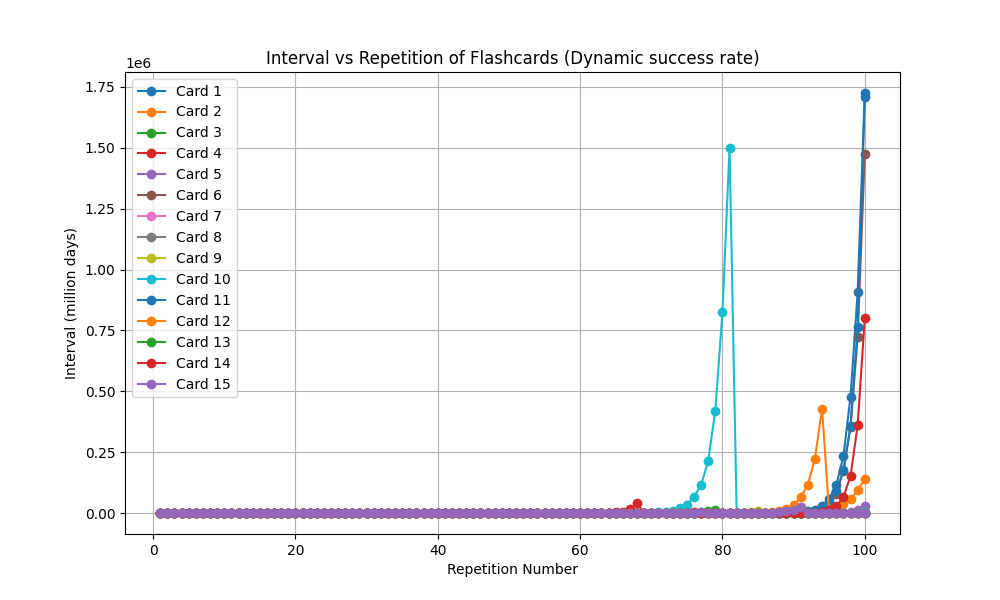
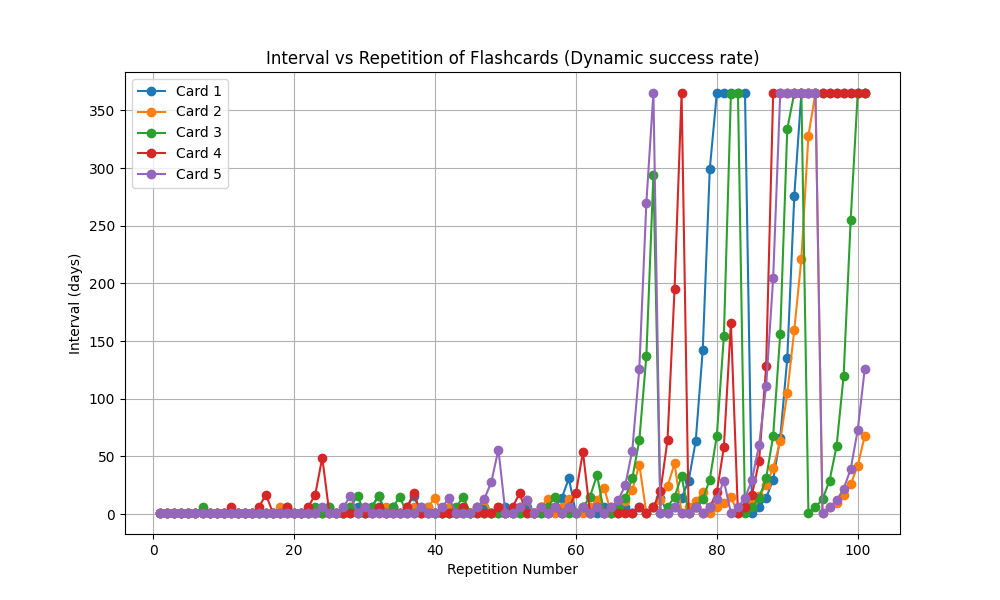
badges page improved for mobile view

diff --git a/cards/templates/cards/badge_shop.html b/cards/templates/cards/badge_shop.html
@@ -4,27 +4,34 @@
 {% block content %}
 {% load static %}
 
-    <div class="header">
+    <div class="flashcard-nav-header">
         <h2>BrainBucks Badge Shop</h2>
         <div class="brainbucks">{{ brainbucks }}<img src="{% static 'images/brainbuck.png' %}" alt="BrainBucks" class="brainbuck-img"></div>
+        <a href = "{% url 'dashboard' %}" class="loginbtn">Back</a>
     </div>
 
         <div class="study-grid">
             {% for badge in badges %}
-                <div class="badge-box">
-                    <div class="badge-image">
-                        <img src="{% static badge.image %}" alt="{{ badge.name }}">
+                    <div class="badge-box {% if badge in purchased_badges %}purchased{% endif %}">
+                        <div class="badge-image">
+                            <img src="{% static badge.image %}" alt="{{ badge.name }}">
+                        </div>
+                        <div class="badge-buttons">
+                            <form action="{% url 'purchase_badge' badge.id %}" method="post" class="purchase-badge-form">
+                                {% csrf_token %}
+                                <button 
+                                    type="submit" 
+                                    class="brainbucks" 
+                                    tabindex="0"
+                                    {% if badge.price > brainbucks or badge in purchased_badges %}disabled{% endif %}>
+                                    {{ badge.price }}
+                                    <img src="{% static 'images/brainbuck.png' %}" alt="BrainBucks">
+                                </button>
+                            </form>
+                        </div>
                     </div>
-                    <div class="badge-buttons">
-                        <form action="" method="post" class="purchase-badge-form">
-                            {% csrf_token %}
-                            <button type="submit" class="brainbucks">{{ badge.price }}<img src="{% static 'images/brainbuck.png' %}" alt="BrainBucks"></button>
-                        </form>
-                    </div>
-                </div>
-
-            {% empty %}
-            <p>No badges found.</p>
-            {% endfor %}
+                {% empty %}
+                    <p>No badges found.</p>
+                {% endfor %}
 </div>
 {% endblock %}

diff --git a/static/css/styles.css b/static/css/styles.css
@@ -7,6 +7,7 @@ body {
     height: 100vh;
     display: flex;
     flex-wrap: wrap;
+    justify-content: center;
 }
 
 main {
@@ -184,7 +185,7 @@ button:hover {
 }
 
 .signup-container {
-    width: 50%;
+    width: 40rem;
     padding: 2rem;
     align-self: center;
     background-color: #fff;
@@ -254,7 +255,7 @@ button:hover {
 }
 
 .scrollbox {
-    width: 100%;
+    width: 90%;
     height: 70vh;
     padding: 3rem;
     margin-top: 2rem;
@@ -262,6 +263,11 @@ button:hover {
     border: 2px solid #00000043;
     border-radius: 8px;
     box-shadow: 0 4px 6px rgba(0, 0, 0, 0.1);
+}
+
+.profile-box .scrollbox {
+    width: 100%;
+    height: 20vh;
 }
 
 
@@ -518,6 +524,31 @@ input[type="radio"]:checked + label.custom-radio {
     display: none;
 }
 
+.profile-box {
+    display: flex;
+    justify-content: center;
+    flex-direction: column;
+    align-items: center;
+    margin-bottom: 2rem;
+    padding: 3rem;
+    border: 2px solid #00000043;
+    border-radius: 8px;
+    background-color: #fff;
+    box-shadow: 0 4px 6px rgba(0, 0, 0, 0.1);
+    width: 75%;
+    height: 85%;
+    box-sizing: border-box;
+}
+
+.badge-container {
+    display: flex;
+    justify-content: center;
+    align-items: center;
+    gap: 20px;
+    flex-wrap: wrap;
+    width: 100%;
+    margin-top: 20px;
+}
 
 .feedback-bar {
     position: fixed;
@@ -888,7 +919,7 @@ input[type="radio"]:checked + label.custom-radio {
     display: flex;
     gap: 8rem;
     padding: 2rem;
-    justify-content: flex-start;
+    justify-content: center;
 }
 
 .create-form {

diff --git a/cards/templates/cards/profile.html b/cards/templates/cards/profile.html
@@ -4,8 +4,8 @@
 {% block content %}
 {% load static %}
 
-<div class="game-box">
-    <div class="header-container">
+<div class="profile-box">
+    <div class="flashcard-nav-header">
         <h1>{{ user.username }}</h1>
         <button id="edit-profile" class="loginbtn">Settings</button>
     </div>
@@ -17,7 +17,23 @@
                 </div>
             </div>
         {% endfor %}
-        <img src="{% static 'images/edit_badge.png' %}" alt="Edit badges">
+        <div class="badge-image">
+            <img src="{% static 'images/edit_badge.png' %}" alt="Edit badges">
+        </div>
+    </div>
+
+    <div class="dashboard">
+        <div class="scrollbox">
+            <div class="flashcard-nav-header">
+                Friends
+            </div>
+            List friends here
+        </div>
+        <div class="scrollbox">
+            <div class="flashcard-nav-header">
+                Leagues
+            </div>
+            List leagues here
     </div>
 </div>
 

diff --git a/spaceplots.py b/spaceplots.py
@@ -1,21 +1,21 @@
 import matplotlib.pyplot as plt
 
 flashcards = [
-    {"term": "Card 1", "intervals": [1.0, 1.0, 1.0, 1.0, 1.0, 1.0, 1.0, 1.0, 1.0, 1.0, 1.0, 1.0, 1.0, 1.0, 1.0, 1.0, 1.0, 1.0, 1.0, 1.0, 1.0, 1.0, 6.0, 1.0, 6.0, 1.0, 1.0, 1.0, 1.0, 1.0, 6.0, 1.0, 1.0, 1.0, 1.0, 1.0, 1.0, 1.0, 1.0, 6.0, 1.0, 1.0, 6.0, 14.0, 1.0, 6.0, 1.0, 1.0, 1.0, 6.0, 1.0, 1.0, 1.0, 6.0, 15.0, 37.0, 1.0, 1.0, 6.0, 1.0, 6.0, 16.0, 39.0, 89.0, 202.0, 477.0, 1.0, 1.0, 6.0, 14.0, 33.0, 77.0, 168.0, 1.0, 6.0, 13.0, 1.0, 6.0, 13.0, 27.0, 1.0, 1.0, 6.0, 14.0, 32.0, 75.0, 165.0, 340.0, 701.0, 1515.0, 3424.0, 7259.0, 14373.0, 28459.0, 59195.0, 114839.0, 234272.0, 477915.0, 908039.0, 1725275.0]},
-    {"term": "Card 2", "intervals": [1.0, 1.0, 1.0, 1.0, 1.0, 6.0, 1.0, 1.0, 1.0, 1.0, 1.0, 1.0, 1.0, 1.0, 1.0, 1.0, 1.0, 1.0, 1.0, 1.0, 1.0, 1.0, 1.0, 6.0, 16.0, 42.0, 1.0, 6.0, 16.0, 1.0, 1.0, 1.0, 1.0, 6.0, 16.0, 1.0, 1.0, 1.0, 1.0, 6.0, 1.0, 1.0, 1.0, 1.0, 1.0, 1.0, 1.0, 1.0, 1.0, 6.0, 14.0, 32.0, 1.0, 1.0, 1.0, 6.0, 14.0, 29.0, 1.0, 1.0, 1.0, 6.0, 13.0, 29.0, 66.0, 1.0, 6.0, 12.0, 1.0, 6.0, 12.0, 24.0, 49.0, 94.0, 188.0, 350.0, 651.0, 1120.0, 2039.0, 1.0, 6.0, 11.0, 21.0, 37.0, 65.0, 114.0, 210.0, 387.0, 658.0, 1185.0, 1968.0, 3267.0, 5750.0, 9316.0, 13788.0, 21786.0, 36601.0, 56366.0, 92441.0, 138662.0]},
-    {"term": "Card 3", "intervals": [1.0, 1.0, 1.0, 1.0, 1.0, 1.0, 1.0, 1.0, 1.0, 1.0, 1.0, 1.0, 1.0, 6.0, 1.0, 1.0, 1.0, 1.0, 1.0, 6.0, 1.0, 1.0, 1.0, 6.0, 1.0, 1.0, 6.0, 14.0, 1.0, 6.0, 14.0, 1.0, 1.0, 1.0, 1.0, 6.0, 13.0, 1.0, 6.0, 1.0, 1.0, 1.0, 1.0, 6.0, 1.0, 1.0, 6.0, 14.0, 1.0, 6.0, 1.0, 6.0, 1.0, 6.0, 15.0, 36.0, 1.0, 1.0, 1.0, 6.0, 1.0, 1.0, 6.0, 1.0, 6.0, 12.0, 1.0, 1.0, 6.0, 13.0, 30.0, 63.0, 139.0, 287.0, 620.0, 1402.0, 2973.0, 6303.0, 12480.0, 1.0, 6.0, 1.0, 6.0, 12.0, 22.0, 40.0, 67.0, 112.0, 1.0, 6.0, 10.0, 18.0, 29.0, 46.0, 67.0, 97.0, 150.0, 232.0, 325.0, 488.0]},
-    {"term": "Card 4", "intervals": [1.0, 1.0, 1.0, 1.0, 1.0, 1.0, 1.0, 1.0, 1.0, 1.0, 6.0, 1.0, 1.0, 1.0, 1.0, 1.0, 1.0, 6.0, 14.0, 32.0, 1.0, 1.0, 6.0, 1.0, 1.0, 1.0, 1.0, 1.0, 6.0, 1.0, 6.0, 13.0, 28.0, 1.0, 6.0, 13.0, 1.0, 6.0, 1.0, 1.0, 1.0, 6.0, 1.0, 6.0, 1.0, 6.0, 1.0, 6.0, 1.0, 6.0, 1.0, 6.0, 11.0, 19.0, 30.0, 1.0, 6.0, 1.0, 1.0, 1.0, 1.0, 1.0, 6.0, 1.0, 1.0, 6.0, 12.0, 21.0, 1.0, 1.0, 6.0, 1.0, 6.0, 11.0, 1.0, 6.0, 10.0, 17.0, 28.0, 46.0, 70.0, 96.0, 141.0, 1.0, 6.0, 9.0, 13.0, 19.0, 29.0, 47.0, 70.0, 1.0, 6.0, 9.0, 13.0, 1.0, 6.0, 9.0, 12.0, 17.0]},
-    {"term": "Card 5", "intervals": [1.0, 1.0, 1.0, 1.0, 1.0, 1.0, 1.0, 1.0, 1.0, 6.0, 1.0, 1.0, 1.0, 1.0, 1.0, 1.0, 1.0, 1.0, 6.0, 1.0, 1.0, 1.0, 1.0, 1.0, 6.0, 1.0, 1.0, 1.0, 6.0, 1.0, 6.0, 1.0, 1.0, 1.0, 6.0, 1.0, 1.0, 6.0, 1.0, 6.0, 1.0, 6.0, 1.0, 6.0, 1.0, 6.0, 16.0, 1.0, 6.0, 14.0, 33.0, 76.0, 183.0, 1.0, 6.0, 1.0, 1.0, 6.0, 15.0, 1.0, 6.0, 14.0, 33.0, 1.0, 6.0, 15.0, 1.0, 1.0, 6.0, 1.0, 1.0, 6.0, 16.0, 42.0, 1.0, 6.0, 15.0, 36.0, 88.0, 215.0, 1.0, 6.0, 15.0, 36.0, 87.0, 197.0, 446.0, 1053.0, 2486.0, 1.0, 6.0, 16.0, 43.0, 109.0, 286.0, 778.0, 2008.0, 4900.0, 11956.0, 29173.0]},
-    {"term": "Card 6", "intervals": [1.0, 1.0, 1.0, 1.0, 1.0, 1.0, 1.0, 1.0, 1.0, 1.0, 1.0, 1.0, 1.0, 1.0, 6.0, 1.0, 6.0, 1.0, 1.0, 1.0, 1.0, 1.0, 1.0, 6.0, 1.0, 1.0, 1.0, 6.0, 1.0, 1.0, 1.0, 1.0, 1.0, 6.0, 17.0, 45.0, 112.0, 1.0, 1.0, 1.0, 1.0, 6.0, 1.0, 6.0, 17.0, 1.0, 6.0, 1.0, 1.0, 1.0, 6.0, 1.0, 6.0, 1.0, 6.0, 16.0, 44.0, 1.0, 1.0, 6.0, 16.0, 43.0, 1.0, 6.0, 16.0, 1.0, 1.0, 1.0, 6.0, 17.0, 1.0, 6.0, 17.0, 49.0, 135.0, 384.0, 1037.0, 1.0, 6.0, 16.0, 43.0, 109.0, 260.0, 1.0, 6.0, 15.0, 38.0, 99.0, 266.0, 676.0, 1623.0, 3668.0, 7777.0, 17265.0, 38329.0, 79725.0, 173801.0, 354555.0, 723293.0, 1475518.0]},
-    {"term": "Card 7", "intervals": [1.0, 6.0, 1.0, 1.0, 1.0, 1.0, 1.0, 1.0, 1.0, 1.0, 1.0, 1.0, 1.0, 1.0, 1.0, 1.0, 1.0, 1.0, 1.0, 1.0, 6.0, 1.0, 1.0, 1.0, 6.0, 12.0, 1.0, 6.0, 1.0, 1.0, 1.0, 1.0, 1.0, 1.0, 6.0, 12.0, 1.0, 1.0, 1.0, 6.0, 1.0, 1.0, 1.0, 1.0, 1.0, 6.0, 12.0, 1.0, 6.0, 1.0, 6.0, 1.0, 6.0, 1.0, 6.0, 13.0, 25.0, 1.0, 1.0, 6.0, 12.0, 1.0, 6.0, 11.0, 1.0, 6.0, 1.0, 6.0, 1.0, 6.0, 1.0, 6.0, 10.0, 18.0, 31.0, 57.0, 96.0, 1.0, 6.0, 10.0, 18.0, 32.0, 56.0, 98.0, 181.0, 308.0, 555.0, 922.0, 1.0, 6.0, 11.0, 21.0, 42.0, 77.0, 148.0, 264.0, 433.0, 754.0, 1207.0, 1932.0]},
-    {"term": "Card 8", "intervals": [1.0, 1.0, 1.0, 1.0, 1.0, 1.0, 1.0, 1.0, 1.0, 1.0, 1.0, 1.0, 1.0, 1.0, 1.0, 1.0, 1.0, 1.0, 1.0, 1.0, 6.0, 1.0, 1.0, 1.0, 6.0, 1.0, 1.0, 6.0, 1.0, 1.0, 6.0, 14.0, 1.0, 1.0, 1.0, 1.0, 6.0, 14.0, 1.0, 1.0, 1.0, 1.0, 1.0, 1.0, 6.0, 15.0, 34.0, 72.0, 1.0, 6.0, 13.0, 29.0, 64.0, 1.0, 6.0, 13.0, 1.0, 6.0, 1.0, 6.0, 13.0, 1.0, 6.0, 14.0, 34.0, 81.0, 192.0, 1.0, 6.0, 14.0, 33.0, 77.0, 168.0, 1.0, 1.0, 1.0, 1.0, 6.0, 13.0, 28.0, 56.0, 105.0, 1.0, 6.0, 11.0, 21.0, 39.0, 75.0, 134.0, 252.0, 439.0, 1.0, 6.0, 9.0, 15.0, 25.0, 42.0, 74.0, 120.0, 195.0]},
-    {"term": "Card 9", "intervals": [1.0, 1.0, 1.0, 1.0, 1.0, 1.0, 1.0, 1.0, 1.0, 1.0, 1.0, 1.0, 1.0, 1.0, 1.0, 1.0, 1.0, 1.0, 1.0, 6.0, 1.0, 1.0, 6.0, 1.0, 1.0, 1.0, 1.0, 1.0, 1.0, 1.0, 6.0, 1.0, 1.0, 1.0, 1.0, 6.0, 1.0, 1.0, 1.0, 6.0, 1.0, 1.0, 6.0, 1.0, 1.0, 6.0, 14.0, 1.0, 1.0, 1.0, 6.0, 13.0, 1.0, 1.0, 6.0, 14.0, 29.0, 1.0, 6.0, 13.0, 29.0, 63.0, 137.0, 310.0, 701.0, 1.0, 6.0, 14.0, 33.0, 77.0, 1.0, 6.0, 14.0, 31.0, 1.0, 6.0, 14.0, 31.0, 71.0, 152.0, 326.0, 731.0, 1711.0, 3765.0, 8283.0, 1.0, 1.0, 6.0, 15.0, 38.0, 90.0, 222.0, 547.0, 1401.0, 1.0, 6.0, 16.0, 42.0, 105.0, 271.0]},
-    {"term": "Card 10", "intervals": [1.0, 1.0, 1.0, 1.0, 6.0, 1.0, 1.0, 6.0, 1.0, 6.0, 1.0, 1.0, 6.0, 1.0, 1.0, 1.0, 6.0, 1.0, 1.0, 1.0, 1.0, 1.0, 1.0, 1.0, 1.0, 1.0, 1.0, 6.0, 18.0, 1.0, 6.0, 1.0, 6.0, 1.0, 1.0, 1.0, 6.0, 1.0, 6.0, 1.0, 6.0, 1.0, 1.0, 1.0, 1.0, 6.0, 1.0, 1.0, 6.0, 17.0, 1.0, 6.0, 15.0, 39.0, 1.0, 6.0, 1.0, 1.0, 1.0, 6.0, 1.0, 1.0, 6.0, 15.0, 34.0, 72.0, 142.0, 293.0, 633.0, 1279.0, 2712.0, 5370.0, 9881.0, 19170.0, 34506.0, 65562.0, 115390.0, 214626.0, 420667.0, 824508.0, 1500605.0, 1.0, 6.0, 11.0, 17.0, 24.0, 34.0, 52.0, 84.0, 123.0, 180.0, 238.0, 310.0, 403.0, 524.0, 682.0, 887.0, 1154.0, 1616.0, 2425.0]},
-    {"term": "Card 11", "intervals": [1.0, 1.0, 1.0, 1.0, 1.0, 1.0, 1.0, 1.0, 1.0, 1.0, 1.0, 1.0, 1.0, 1.0, 1.0, 1.0, 6.0, 1.0, 1.0, 1.0, 1.0, 1.0, 1.0, 6.0, 1.0, 1.0, 6.0, 1.0, 1.0, 6.0, 1.0, 1.0, 1.0, 6.0, 1.0, 1.0, 1.0, 1.0, 6.0, 1.0, 1.0, 1.0, 1.0, 1.0, 1.0, 6.0, 1.0, 1.0, 6.0, 1.0, 1.0, 6.0, 16.0, 42.0, 115.0, 1.0, 6.0, 16.0, 43.0, 120.0, 317.0, 837.0, 1.0, 6.0, 16.0, 1.0, 6.0, 15.0, 39.0, 1.0, 6.0, 16.0, 39.0, 1.0, 1.0, 1.0, 6.0, 14.0, 34.0, 1.0, 6.0, 16.0, 1.0, 6.0, 15.0, 35.0, 81.0, 187.0, 404.0, 873.0, 1886.0, 4074.0, 9208.0, 19521.0, 43337.0, 90141.0, 174874.0, 356743.0, 763431.0, 1710086.0]},
-    {"term": "Card 12", "intervals": [1.0, 1.0, 1.0, 1.0, 1.0, 1.0, 1.0, 1.0, 1.0, 1.0, 1.0, 1.0, 1.0, 1.0, 1.0, 1.0, 1.0, 6.0, 15.0, 1.0, 6.0, 1.0, 1.0, 1.0, 1.0, 1.0, 1.0, 1.0, 6.0, 1.0, 1.0, 1.0, 1.0, 1.0, 6.0, 1.0, 6.0, 1.0, 1.0, 1.0, 1.0, 1.0, 6.0, 15.0, 1.0, 6.0, 14.0, 29.0, 1.0, 6.0, 1.0, 6.0, 14.0, 32.0, 73.0, 1.0, 6.0, 14.0, 32.0, 1.0, 6.0, 14.0, 32.0, 75.0, 164.0, 1.0, 6.0, 15.0, 34.0, 1.0, 6.0, 12.0, 25.0, 52.0, 1.0, 6.0, 1.0, 1.0, 6.0, 13.0, 28.0, 63.0, 140.0, 325.0, 709.0, 1447.0, 3097.0, 6938.0, 15542.0, 32639.0, 63973.0, 116431.0, 223548.0, 429213.0, 1.0, 6.0, 11.0, 21.0, 40.0, 70.0]},
-    {"term": "Card 13", "intervals": [1.0, 1.0, 1.0, 1.0, 1.0, 1.0, 1.0, 1.0, 1.0, 1.0, 1.0, 6.0, 1.0, 1.0, 6.0, 1.0, 1.0, 1.0, 1.0, 1.0, 1.0, 1.0, 1.0, 1.0, 1.0, 1.0, 1.0, 6.0, 1.0, 1.0, 1.0, 6.0, 1.0, 1.0, 1.0, 6.0, 1.0, 6.0, 1.0, 6.0, 1.0, 6.0, 1.0, 1.0, 6.0, 1.0, 6.0, 1.0, 1.0, 1.0, 6.0, 1.0, 6.0, 1.0, 6.0, 16.0, 44.0, 1.0, 6.0, 1.0, 1.0, 6.0, 17.0, 44.0, 113.0, 1.0, 1.0, 1.0, 6.0, 1.0, 1.0, 6.0, 15.0, 36.0, 81.0, 1.0, 6.0, 1.0, 6.0, 14.0, 1.0, 6.0, 1.0, 6.0, 15.0, 34.0, 71.0, 1.0, 6.0, 11.0, 21.0, 42.0, 79.0, 155.0, 304.0, 1.0, 6.0, 11.0, 19.0, 32.0]},
-    {"term": "Card 14", "intervals": [1.0, 1.0, 1.0, 1.0, 1.0, 1.0, 1.0, 6.0, 1.0, 6.0, 1.0, 1.0, 1.0, 1.0, 1.0, 1.0, 1.0, 1.0, 1.0, 1.0, 1.0, 1.0, 1.0, 1.0, 6.0, 15.0, 1.0, 1.0, 1.0, 6.0, 1.0, 1.0, 6.0, 15.0, 38.0, 100.0, 248.0, 1.0, 1.0, 6.0, 1.0, 1.0, 6.0, 1.0, 1.0, 6.0, 1.0, 1.0, 1.0, 6.0, 15.0, 1.0, 1.0, 1.0, 1.0, 6.0, 15.0, 1.0, 6.0, 15.0, 39.0, 100.0, 266.0, 735.0, 2103.0, 5721.0, 14761.0, 39560.0, 1.0, 6.0, 16.0, 43.0, 108.0, 281.0, 759.0, 2126.0, 1.0, 6.0, 17.0, 50.0, 146.0, 1.0, 6.0, 17.0, 47.0, 1.0, 6.0, 18.0, 49.0, 127.0, 310.0, 757.0, 1848.0, 4694.0, 11923.0, 28616.0, 64673.0, 152629.0, 360205.0, 799656.0]},
-    {"term": "Card 15", "intervals": [1.0, 1.0, 1.0, 1.0, 1.0, 1.0, 1.0, 1.0, 1.0, 6.0, 1.0, 1.0, 1.0, 1.0, 1.0, 1.0, 1.0, 1.0, 1.0, 1.0, 1.0, 1.0, 6.0, 1.0, 1.0, 6.0, 1.0, 1.0, 1.0, 1.0, 1.0, 6.0, 1.0, 1.0, 1.0, 1.0, 1.0, 6.0, 14.0, 34.0, 1.0, 1.0, 6.0, 1.0, 6.0, 1.0, 6.0, 1.0, 6.0, 1.0, 6.0, 15.0, 1.0, 6.0, 1.0, 6.0, 17.0, 1.0, 6.0, 15.0, 1.0, 1.0, 6.0, 15.0, 1.0, 6.0, 14.0, 1.0, 6.0, 14.0, 33.0, 73.0, 161.0, 371.0, 802.0, 1733.0, 3917.0, 1.0, 1.0, 6.0, 13.0, 29.0, 68.0, 149.0, 340.0, 728.0, 1456.0, 3058.0, 6422.0, 13487.0, 26435.0, 1.0, 6.0, 11.0, 21.0, 41.0, 83.0, 157.0, 296.0, 516.0]}
+    {"term": "Card 1", "intervals": [1.0, 1.0, 1.0, 1.0, 1.0, 1.0, 1.0, 1.0, 1.0, 1.0, 1.0, 1.0, 1.0, 1.0, 1.0, 1.0, 1.0, 1.0, 1.0, 1.0, 1.0, 1.0, 1.0, 1.0, 6.0, 1.0, 1.0, 1.0, 6.0, 1.0, 6.0, 16.0, 1.0, 6.0, 1.0, 6.0, 16.0, 1.0, 6.0, 1.0, 1.0, 1.0, 1.0, 1.0, 1.0, 1.0, 6.0, 1.0, 1.0, 6.0, 1.0, 1.0, 6.0, 1.0, 1.0, 1.0, 6.0, 14.0, 31.0, 1.0, 6.0, 1.0, 1.0, 6.0, 1.0, 1.0, 6.0, 1.0, 6.0, 1.0, 6.0, 14.0, 1.0, 6.0, 14.0, 29.0, 63.0, 142.0, 299.0, 365.0, 365.0, 365.0, 365.0, 365.0, 1.0, 6.0, 14.0, 30.0, 66.0, 135.0, 276.0, 365.0, 365.0, 365.0, 365.0, 365.0, 365.0, 365.0, 365.0, 365.0, 365.0]},
+    {"term": "Card 2", "intervals": [1.0, 1.0, 1.0, 1.0, 1.0, 1.0, 1.0, 1.0, 1.0, 1.0, 1.0, 1.0, 1.0, 1.0, 1.0, 1.0, 1.0, 6.0, 1.0, 1.0, 1.0, 1.0, 1.0, 1.0, 1.0, 1.0, 1.0, 6.0, 1.0, 6.0, 1.0, 1.0, 6.0, 1.0, 1.0, 1.0, 6.0, 1.0, 6.0, 14.0, 1.0, 6.0, 1.0, 1.0, 1.0, 6.0, 12.0, 1.0, 6.0, 1.0, 1.0, 6.0, 12.0, 1.0, 6.0, 13.0, 1.0, 6.0, 13.0, 1.0, 1.0, 6.0, 12.0, 23.0, 1.0, 6.0, 11.0, 21.0, 43.0, 1.0, 6.0, 12.0, 24.0, 44.0, 1.0, 6.0, 11.0, 19.0, 1.0, 6.0, 10.0, 15.0, 1.0, 6.0, 10.0, 16.0, 25.0, 40.0, 63.0, 105.0, 160.0, 221.0, 328.0, 365.0, 1.0, 6.0, 10.0, 17.0, 26.0, 42.0, 68.0]},
+    {"term": "Card 3", "intervals": [1.0, 1.0, 1.0, 1.0, 1.0, 1.0, 6.0, 1.0, 1.0, 1.0, 1.0, 1.0, 1.0, 1.0, 1.0, 1.0, 1.0, 1.0, 6.0, 1.0, 1.0, 1.0, 6.0, 1.0, 6.0, 1.0, 1.0, 6.0, 16.0, 1.0, 6.0, 16.0, 1.0, 6.0, 15.0, 1.0, 1.0, 6.0, 1.0, 1.0, 1.0, 1.0, 6.0, 15.0, 1.0, 6.0, 1.0, 1.0, 1.0, 1.0, 1.0, 1.0, 1.0, 1.0, 1.0, 6.0, 15.0, 1.0, 1.0, 1.0, 6.0, 15.0, 34.0, 1.0, 1.0, 6.0, 14.0, 31.0, 64.0, 137.0, 294.0, 1.0, 6.0, 15.0, 33.0, 1.0, 6.0, 13.0, 30.0, 68.0, 154.0, 364.0, 365.0, 1.0, 6.0, 14.0, 31.0, 68.0, 156.0, 334.0, 365.0, 365.0, 1.0, 6.0, 13.0, 29.0, 59.0, 120.0, 255.0, 365.0, 365.0]},
+    {"term": "Card 4", "intervals": [1.0, 1.0, 1.0, 1.0, 1.0, 1.0, 1.0, 1.0, 1.0, 1.0, 6.0, 1.0, 1.0, 1.0, 6.0, 17.0, 1.0, 1.0, 6.0, 1.0, 1.0, 6.0, 17.0, 49.0, 1.0, 1.0, 1.0, 1.0, 1.0, 1.0, 1.0, 6.0, 1.0, 1.0, 1.0, 6.0, 18.0, 1.0, 1.0, 1.0, 1.0, 1.0, 1.0, 6.0, 1.0, 1.0, 1.0, 1.0, 6.0, 1.0, 6.0, 18.0, 1.0, 1.0, 6.0, 1.0, 6.0, 1.0, 6.0, 18.0, 54.0, 1.0, 6.0, 1.0, 6.0, 1.0, 1.0, 1.0, 6.0, 1.0, 6.0, 20.0, 64.0, 195.0, 365.0, 1.0, 6.0, 1.0, 6.0, 19.0, 58.0, 166.0, 1.0, 6.0, 17.0, 46.0, 128.0, 365.0, 365.0, 365.0, 365.0, 365.0, 365.0, 365.0, 365.0, 365.0, 365.0, 365.0, 365.0, 365.0, 365.0]},
+    {"term": "Card 5", "intervals": [1.0, 1.0, 1.0, 1.0, 1.0, 1.0, 1.0, 1.0, 1.0, 1.0, 1.0, 1.0, 1.0, 1.0, 1.0, 1.0, 1.0, 1.0, 1.0, 1.0, 1.0, 1.0, 1.0, 6.0, 1.0, 1.0, 6.0, 16.0, 1.0, 6.0, 1.0, 1.0, 1.0, 1.0, 1.0, 1.0, 1.0, 6.0, 1.0, 1.0, 6.0, 14.0, 1.0, 1.0, 1.0, 6.0, 13.0, 28.0, 56.0, 1.0, 1.0, 6.0, 12.0, 1.0, 6.0, 1.0, 6.0, 1.0, 6.0, 1.0, 6.0, 1.0, 6.0, 1.0, 6.0, 12.0, 25.0, 55.0, 126.0, 270.0, 365.0, 1.0, 1.0, 6.0, 1.0, 1.0, 6.0, 1.0, 6.0, 13.0, 29.0, 1.0, 6.0, 14.0, 30.0, 60.0, 111.0, 205.0, 365.0, 365.0, 365.0, 365.0, 365.0, 365.0, 1.0, 6.0, 12.0, 22.0, 39.0, 73.0, 126.0]},
+    # {"term": "Card 6", "intervals": [1.0, 6.0, 1.0, 6.0, 14.0, 31.0, 1.0, 6.0, 14.0, 32.0, 73.0, 157.0, 336.0, 365.0, 365.0, 365.0, 365.0, 365.0, 365.0, 1.0, 1.0, 6.0, 13.0, 30.0, 1.0, 6.0, 14.0, 32.0, 1.0, 6.0, 14.0, 1.0, 6.0, 1.0, 6.0, 11.0, 21.0, 37.0, 1.0, 6.0, 11.0, 19.0, 31.0, 53.0, 90.0, 139.0, 1.0, 6.0, 11.0, 18.0, 31.0, 1.0, 1.0, 1.0, 1.0, 6.0, 9.0, 1.0, 6.0, 10.0, 14.0, 19.0, 1.0, 6.0, 1.0, 6.0, 8.0, 11.0, 15.0, 20.0, 28.0, 43.0, 65.0, 98.0, 148.0, 223.0, 335.0, 1.0, 6.0, 1.0, 6.0, 9.0, 1.0, 6.0, 1.0, 6.0, 1.0, 6.0, 1.0, 6.0, 10.0, 17.0, 26.0, 35.0, 46.0, 60.0, 85.0, 128.0, 205.0, 349.0, 365.0]},
+    # {"term": "Card 7", "intervals": [1.0, 6.0, 17.0, 44.0, 118.0, 298.0, 365.0, 365.0, 365.0, 365.0, 365.0, 365.0, 365.0, 365.0, 365.0, 1.0, 6.0, 15.0, 39.0, 95.0, 240.0, 365.0, 365.0, 365.0, 365.0, 365.0, 365.0, 365.0, 365.0, 365.0, 365.0, 365.0, 365.0, 365.0, 365.0, 365.0, 365.0, 1.0, 6.0, 14.0, 32.0, 69.0, 1.0, 6.0, 13.0, 29.0, 1.0, 1.0, 6.0, 13.0, 29.0, 66.0, 140.0, 1.0, 6.0, 1.0, 6.0, 14.0, 32.0, 69.0, 1.0, 6.0, 1.0, 6.0, 14.0, 33.0, 72.0, 146.0, 295.0, 365.0, 365.0, 365.0, 365.0, 365.0, 365.0, 365.0, 365.0, 365.0, 365.0, 1.0, 6.0, 12.0, 25.0, 52.0, 100.0, 203.0, 365.0, 365.0, 365.0, 365.0, 1.0, 6.0, 10.0, 16.0, 23.0, 35.0, 1.0, 6.0, 11.0, 19.0, 35.0]},
+    # {"term": "Card 8", "intervals": [1.0, 6.0, 15.0, 1.0, 6.0, 15.0, 1.0, 1.0, 6.0, 14.0, 34.0, 78.0, 178.0, 365.0, 365.0, 1.0, 6.0, 15.0, 36.0, 80.0, 184.0, 365.0, 365.0, 365.0, 365.0, 365.0, 365.0, 365.0, 1.0, 6.0, 1.0, 6.0, 1.0, 1.0, 6.0, 13.0, 25.0, 48.0, 1.0, 1.0, 1.0, 6.0, 11.0, 21.0, 40.0, 75.0, 147.0, 268.0, 365.0, 365.0, 1.0, 1.0, 6.0, 1.0, 6.0, 1.0, 6.0, 11.0, 1.0, 6.0, 11.0, 19.0, 35.0, 1.0, 6.0, 11.0, 19.0, 34.0, 56.0, 91.0, 1.0, 6.0, 1.0, 6.0, 11.0, 19.0, 32.0, 50.0, 78.0, 128.0, 210.0, 316.0, 365.0, 365.0, 365.0, 365.0, 365.0, 1.0, 6.0, 1.0, 1.0, 6.0, 1.0, 6.0, 8.0, 12.0, 16.0, 1.0, 6.0, 1.0, 6.0]},
+    # {"term": "Card 9", "intervals": [1.0, 1.0, 6.0, 16.0, 40.0, 93.0, 226.0, 365.0, 365.0, 365.0, 365.0, 365.0, 365.0, 365.0, 365.0, 1.0, 1.0, 1.0, 6.0, 13.0, 29.0, 1.0, 1.0, 6.0, 1.0, 6.0, 12.0, 24.0, 50.0, 109.0, 249.0, 365.0, 365.0, 1.0, 1.0, 1.0, 6.0, 12.0, 23.0, 43.0, 85.0, 167.0, 345.0, 1.0, 6.0, 1.0, 6.0, 12.0, 24.0, 48.0, 1.0, 6.0, 12.0, 24.0, 47.0, 1.0, 6.0, 12.0, 23.0, 44.0, 89.0, 187.0, 365.0, 1.0, 1.0, 1.0, 6.0, 1.0, 6.0, 11.0, 20.0, 33.0, 50.0, 69.0, 101.0, 1.0, 6.0, 9.0, 1.0, 6.0, 9.0, 12.0, 17.0, 1.0, 6.0, 8.0, 12.0, 19.0, 26.0, 34.0, 48.0, 63.0, 1.0, 6.0, 1.0, 6.0, 8.0, 11.0, 16.0, 23.0, 1.0]},
+    # {"term": "Card 10", "intervals": [1.0, 6.0, 1.0, 6.0, 15.0, 36.0, 89.0, 207.0, 365.0, 365.0, 1.0, 6.0, 15.0, 1.0, 1.0, 6.0, 1.0, 1.0, 1.0, 6.0, 15.0, 34.0, 80.0, 1.0, 1.0, 6.0, 14.0, 33.0, 72.0, 163.0, 346.0, 365.0, 365.0, 365.0, 1.0, 6.0, 1.0, 6.0, 13.0, 30.0, 63.0, 133.0, 280.0, 365.0, 1.0, 6.0, 14.0, 31.0, 72.0, 156.0, 316.0, 365.0, 365.0, 1.0, 6.0, 1.0, 6.0, 12.0, 24.0, 44.0, 1.0, 6.0, 1.0, 6.0, 12.0, 24.0, 45.0, 78.0, 124.0, 196.0, 330.0, 365.0, 365.0, 365.0, 365.0, 365.0, 365.0, 1.0, 6.0, 1.0, 6.0, 9.0, 14.0, 20.0, 30.0, 41.0, 55.0, 1.0, 6.0, 8.0, 11.0, 15.0, 20.0, 28.0, 37.0, 52.0, 79.0, 1.0, 6.0, 10.0, 18.0]},
+    # {"term": "Card 11", "intervals": [1.0, 6.0, 15.0, 1.0, 1.0, 1.0, 6.0, 16.0, 43.0, 119.0, 341.0, 365.0, 365.0, 365.0, 365.0, 1.0, 6.0, 18.0, 50.0, 130.0, 1.0, 6.0, 14.0, 31.0, 68.0, 149.0, 325.0, 365.0, 365.0, 1.0, 6.0, 1.0, 6.0, 13.0, 29.0, 64.0, 141.0, 291.0, 365.0, 365.0, 365.0, 365.0, 365.0, 365.0, 365.0, 365.0, 365.0, 365.0, 1.0, 6.0, 1.0, 1.0, 1.0, 6.0, 12.0, 22.0, 43.0, 77.0, 1.0, 6.0, 10.0, 1.0, 6.0, 1.0, 6.0, 9.0, 14.0, 21.0, 28.0, 37.0, 53.0, 76.0, 1.0, 6.0, 9.0, 13.0, 17.0, 24.0, 32.0, 1.0, 1.0, 6.0, 8.0, 11.0, 16.0, 25.0, 35.0, 48.0, 63.0, 1.0, 1.0, 6.0, 1.0, 6.0, 8.0, 1.0, 6.0, 8.0, 12.0, 16.0, 23.0]},
+    # {"term": "Card 12", "intervals": [1.0, 6.0, 1.0, 6.0, 16.0, 39.0, 89.0, 191.0, 365.0, 365.0, 365.0, 1.0, 6.0, 12.0, 25.0, 52.0, 1.0, 6.0, 12.0, 24.0, 43.0, 1.0, 6.0, 1.0, 1.0, 1.0, 6.0, 11.0, 1.0, 6.0, 12.0, 25.0, 48.0, 85.0, 159.0, 274.0, 365.0, 365.0, 365.0, 365.0, 365.0, 365.0, 365.0, 1.0, 6.0, 11.0, 1.0, 6.0, 12.0, 1.0, 1.0, 6.0, 11.0, 18.0, 30.0, 1.0, 1.0, 6.0, 10.0, 15.0, 20.0, 29.0, 1.0, 1.0, 6.0, 10.0, 17.0, 28.0, 41.0, 64.0, 100.0, 143.0, 1.0, 6.0, 9.0, 1.0, 1.0, 6.0, 9.0, 14.0, 23.0, 37.0, 63.0, 1.0, 6.0, 10.0, 18.0, 29.0, 50.0, 91.0, 164.0, 296.0, 365.0, 365.0, 1.0, 6.0, 1.0, 6.0, 11.0, 22.0, 40.0]},
+    # {"term": "Card 13", "intervals": [1.0, 1.0, 1.0, 1.0, 1.0, 1.0, 1.0, 1.0, 1.0, 1.0, 1.0, 6.0, 1.0, 1.0, 6.0, 1.0, 1.0, 1.0, 1.0, 1.0, 1.0, 1.0, 1.0, 1.0, 1.0, 1.0, 1.0, 6.0, 1.0, 1.0, 1.0, 6.0, 1.0, 1.0, 1.0, 6.0, 1.0, 6.0, 1.0, 6.0, 1.0, 6.0, 1.0, 1.0, 6.0, 1.0, 6.0, 1.0, 1.0, 1.0, 6.0, 1.0, 6.0, 1.0, 6.0, 16.0, 44.0, 1.0, 6.0, 1.0, 1.0, 6.0, 17.0, 44.0, 113.0, 1.0, 1.0, 1.0, 6.0, 1.0, 1.0, 6.0, 15.0, 36.0, 81.0, 1.0, 6.0, 1.0, 6.0, 14.0, 1.0, 6.0, 1.0, 6.0, 15.0, 34.0, 71.0, 1.0, 6.0, 11.0, 21.0, 42.0, 79.0, 155.0, 304.0, 1.0, 6.0, 11.0, 19.0, 32.0]},
+    # {"term": "Card 14", "intervals": [1.0, 6.0, 15.0, 1.0, 6.0, 15.0, 39.0, 95.0, 1.0, 6.0, 14.0, 30.0, 1.0, 1.0, 6.0, 12.0, 26.0, 51.0, 106.0, 1.0, 6.0, 13.0, 27.0, 1.0, 6.0, 12.0, 21.0, 39.0, 76.0, 156.0, 1.0, 6.0, 12.0, 23.0, 40.0, 1.0, 6.0, 10.0, 1.0, 6.0, 10.0, 15.0, 20.0, 28.0, 43.0, 59.0, 1.0, 6.0, 10.0, 16.0, 23.0, 30.0, 43.0, 1.0, 6.0, 1.0, 1.0, 6.0, 8.0, 1.0, 6.0, 9.0, 13.0, 1.0, 6.0, 9.0, 1.0, 6.0, 8.0, 11.0, 16.0, 1.0, 6.0, 8.0, 12.0, 19.0, 31.0, 46.0, 61.0, 1.0, 1.0, 1.0, 6.0, 9.0, 12.0, 16.0, 21.0, 28.0, 40.0, 56.0, 1.0, 6.0, 9.0, 13.0, 17.0, 23.0, 33.0, 47.0, 66.0, 93.0, 131.0]},
+    # {"term": "Card 15", "intervals": [1.0, 6.0, 16.0, 40.0, 99.0, 244.0, 365.0, 1.0, 6.0, 1.0, 6.0, 16.0, 41.0, 104.0, 263.0, 365.0, 365.0, 365.0, 365.0, 365.0, 365.0, 365.0, 365.0, 365.0, 365.0, 365.0, 1.0, 6.0, 1.0, 1.0, 6.0, 1.0, 6.0, 16.0, 40.0, 94.0, 1.0, 6.0, 1.0, 6.0, 14.0, 31.0, 71.0, 161.0, 364.0, 365.0, 365.0, 365.0, 365.0, 365.0, 365.0, 365.0, 1.0, 1.0, 6.0, 1.0, 6.0, 13.0, 30.0, 1.0, 6.0, 15.0, 36.0, 80.0, 176.0, 1.0, 6.0, 14.0, 33.0, 1.0, 6.0, 1.0, 1.0, 6.0, 14.0, 1.0, 6.0, 15.0, 35.0, 1.0, 1.0, 1.0, 6.0, 14.0, 33.0, 1.0, 6.0, 15.0, 38.0, 1.0, 1.0, 6.0, 1.0, 1.0, 6.0, 15.0, 39.0, 105.0, 267.0, 365.0, 365.0]}
 ]
 
 plt.figure(figsize=(10, 6))
@@ -25,7 +25,7 @@ for card in flashcards:
 
 plt.title('Interval vs Repetition of Flashcards (Dynamic success rate)')
 plt.xlabel('Repetition Number')
-plt.ylabel('Interval (million days)')
+plt.ylabel('Interval (days)')
 plt.grid(True)
 plt.legend()
 

diff --git a/test.py b/test.py
@@ -212,6 +212,7 @@ class SpacedRepetitionTests(TestCase):
 
 
     def evaluate_and_update_flashcard(self, request, flashcard, flashcard_set, user_answer, is_correct, elapsed_time):
+        print(f"user_answer: {user_answer}, is_correct: {is_correct}, elapsed_time: {elapsed_time}")
         if user_answer == is_correct:
             flashcard.repetition += 1
             if elapsed_time > 1.25 * flashcard_set.baseline:
@@ -237,7 +238,7 @@ class SpacedRepetitionTests(TestCase):
         elif flashcard.repetition == 2:
             flashcard.interval = 86400 * 6
         else:
-            flashcard.interval = max(flashcard.interval * flashcard.ease_factor, 86400)
+            flashcard.interval = max(min(flashcard.interval * flashcard.ease_factor, 86400 * 365), 86400)
 
         flashcard.last_reviewed = now()
         flashcard.save()
@@ -273,9 +274,11 @@ class SpacedRepetitionTests(TestCase):
         intervals_by_flashcard = {flashcard.term: [] for flashcard in Flashcard.objects.all()}
 
         for flashcard in lineup:
+            intervals_by_flashcard[flashcard.term].append(flashcard.interval / 86400)
             for i in range(100):
                 print(f"\n--- Question {i + 1} ---")
                 user_answer = random.choices([True, False], weights=[i * 10, 1000 - (i * 10)], k=1)[0]
+                #user_answer = random.choices([True, False], weights=[0.5, 0.5])[0]
                 elapsed_time = random.uniform(1, 20)
 
                 old_interval = flashcard.interval
@@ -299,6 +302,7 @@ class SpacedRepetitionTests(TestCase):
                 intervals_by_flashcard[flashcard.term].append(flashcard.interval / 86400)  # Convert seconds to days
 
                 # Assertions
+                print(f"flashcard term: {flashcard.term}, user_answer: {user_answer}, slow: {slow}, average: {average}, fast: {fast}")
                 if user_answer and not slow:
                     expected_ease_factor = ease_factor_calculation(old_ease_factor, performance_level=3 if average else 4)
                     self.assertEqual(flashcard.ease_factor, expected_ease_factor,

diff --git a/cards/views.py b/cards/views.py
@@ -109,6 +109,7 @@ def login_view(request):
 @login_required
 def dashboard(request):
     flashcard_sets = FlashcardSet.objects.filter(user=request.user.profile)
+    brainbucks = request.user.profile.brainbucks
     badges = Badge.objects.all()
     user_badges = UserBadge.objects.filter(user=request.user.profile)
     purchased_badges = Badge.objects.filter(user_badges__in=user_badges)
@@ -116,7 +117,7 @@ def dashboard(request):
     return render(request, 'cards/dashboard.html', {
         'flashcard_sets': flashcard_sets,
         'username': request.user.username,
-        'brainbucks': request.user.profile.brainbucks,
+        'brainbucks': brainbucks,
         'badges': badges,
         'purchased_badges': purchased_badges,
     })
@@ -127,9 +128,15 @@ def flashcard_sidebar(request):
     return render(request, 'cards/flashcard_sidebar.html', {'flashcard_sets': flashcard_sets})
 
 def badge_shop(request):
-    badges = Badge.objects.all()
     brainbucks = request.user.profile.brainbucks
-    return render(request, 'cards/badge_shop.html', {'badges': badges, 'brainbucks': brainbucks})
+    badges = Badge.objects.all()
+    user_badges = UserBadge.objects.filter(user=request.user.profile)
+    purchased_badges = Badge.objects.filter(user_badges__in=user_badges)
+    return render(request, 'cards/badge_shop.html', {
+        'badges': badges, 
+        'brainbucks': brainbucks,
+        'purchased_badges': purchased_badges,
+    })
 
 def purchase_badge(request, badge_id):
     badge = get_object_or_404(Badge, id=badge_id)
@@ -336,7 +343,7 @@ def evaluate_and_update_flashcard(request, flashcard, flashcard_set, user_answer
     elif flashcard.repetition == 2:
         flashcard.interval = 86400 * 6
     else:
-        flashcard.interval = max(flashcard.interval * flashcard.ease_factor, 86400)
+        flashcard.interval = max(min(flashcard.interval * flashcard.ease_factor, 86400 * 365), 86400)
 
     flashcard.last_reviewed = now()
     flashcard.save()
